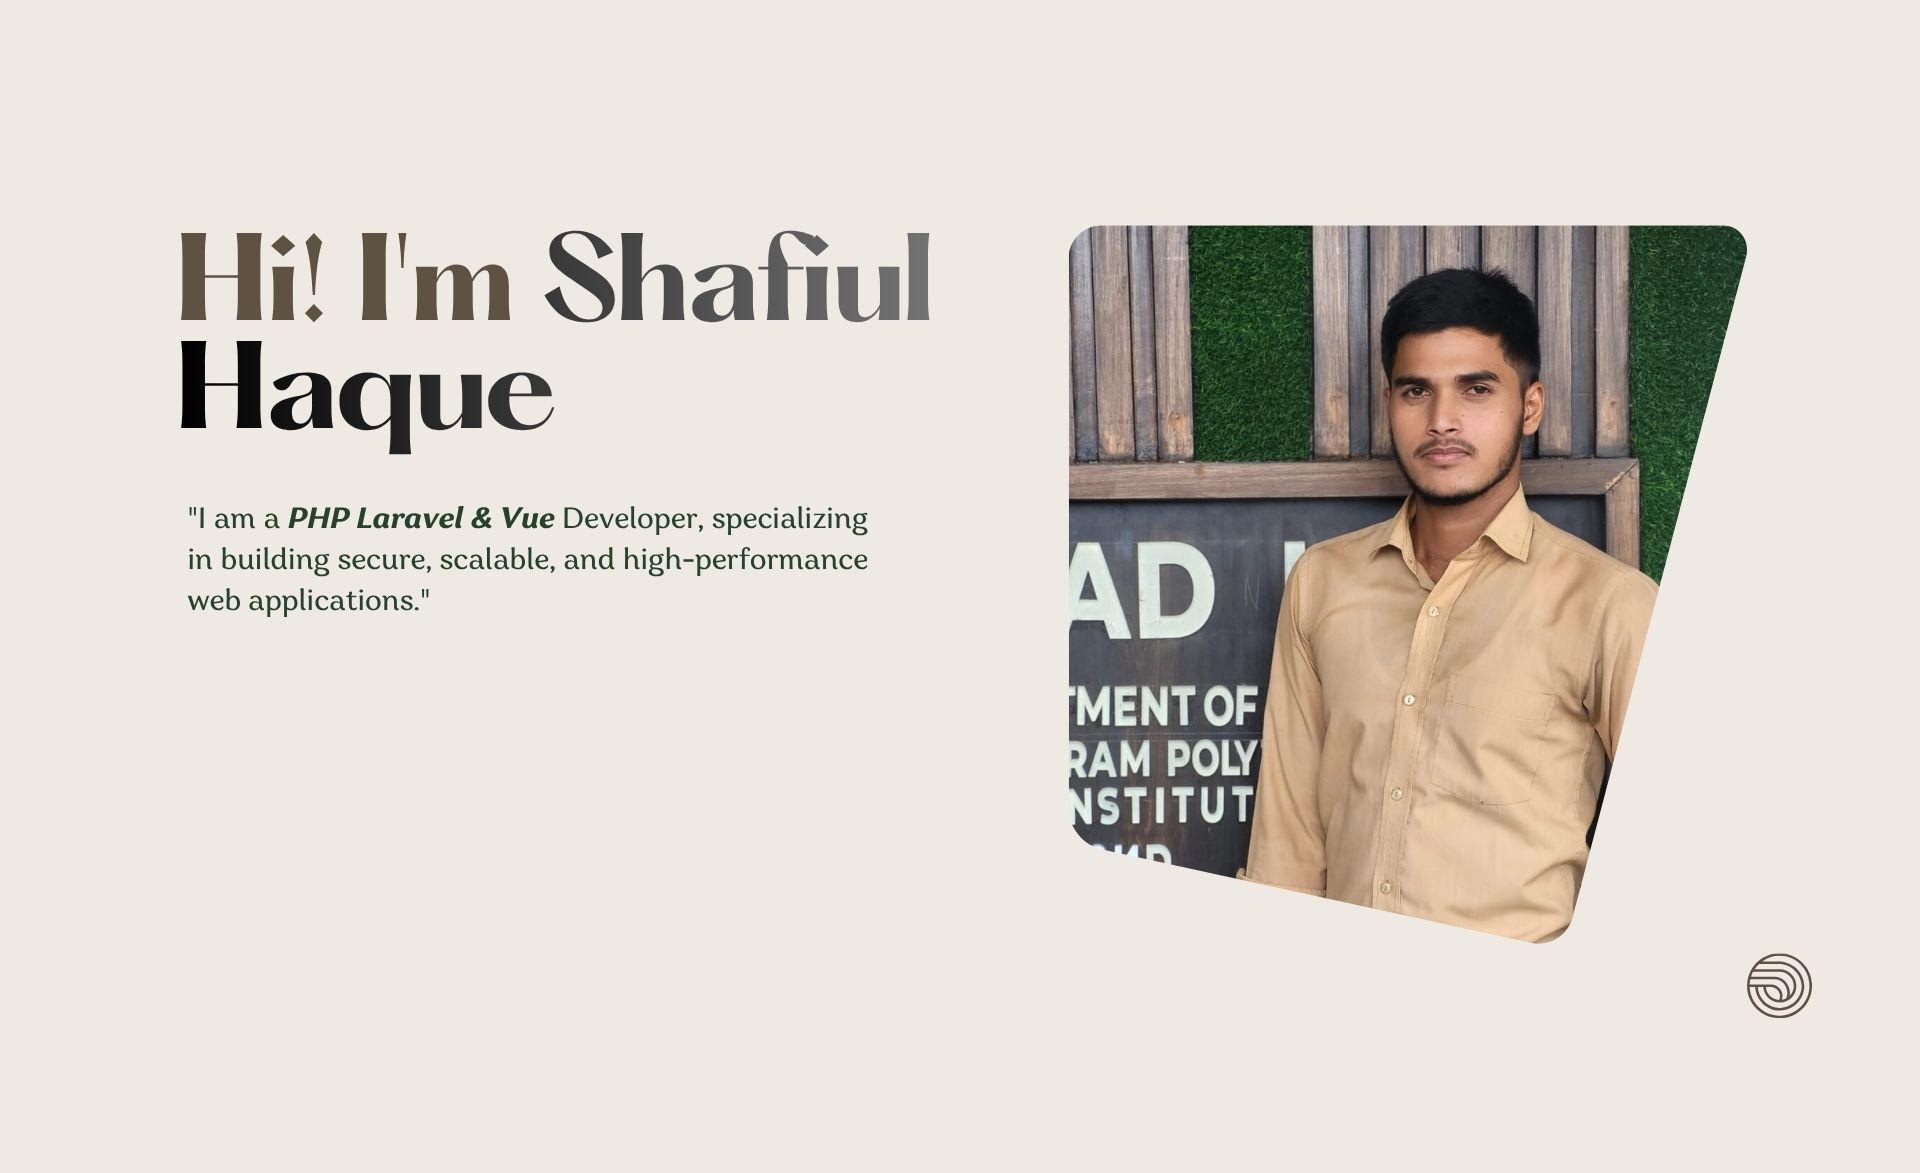
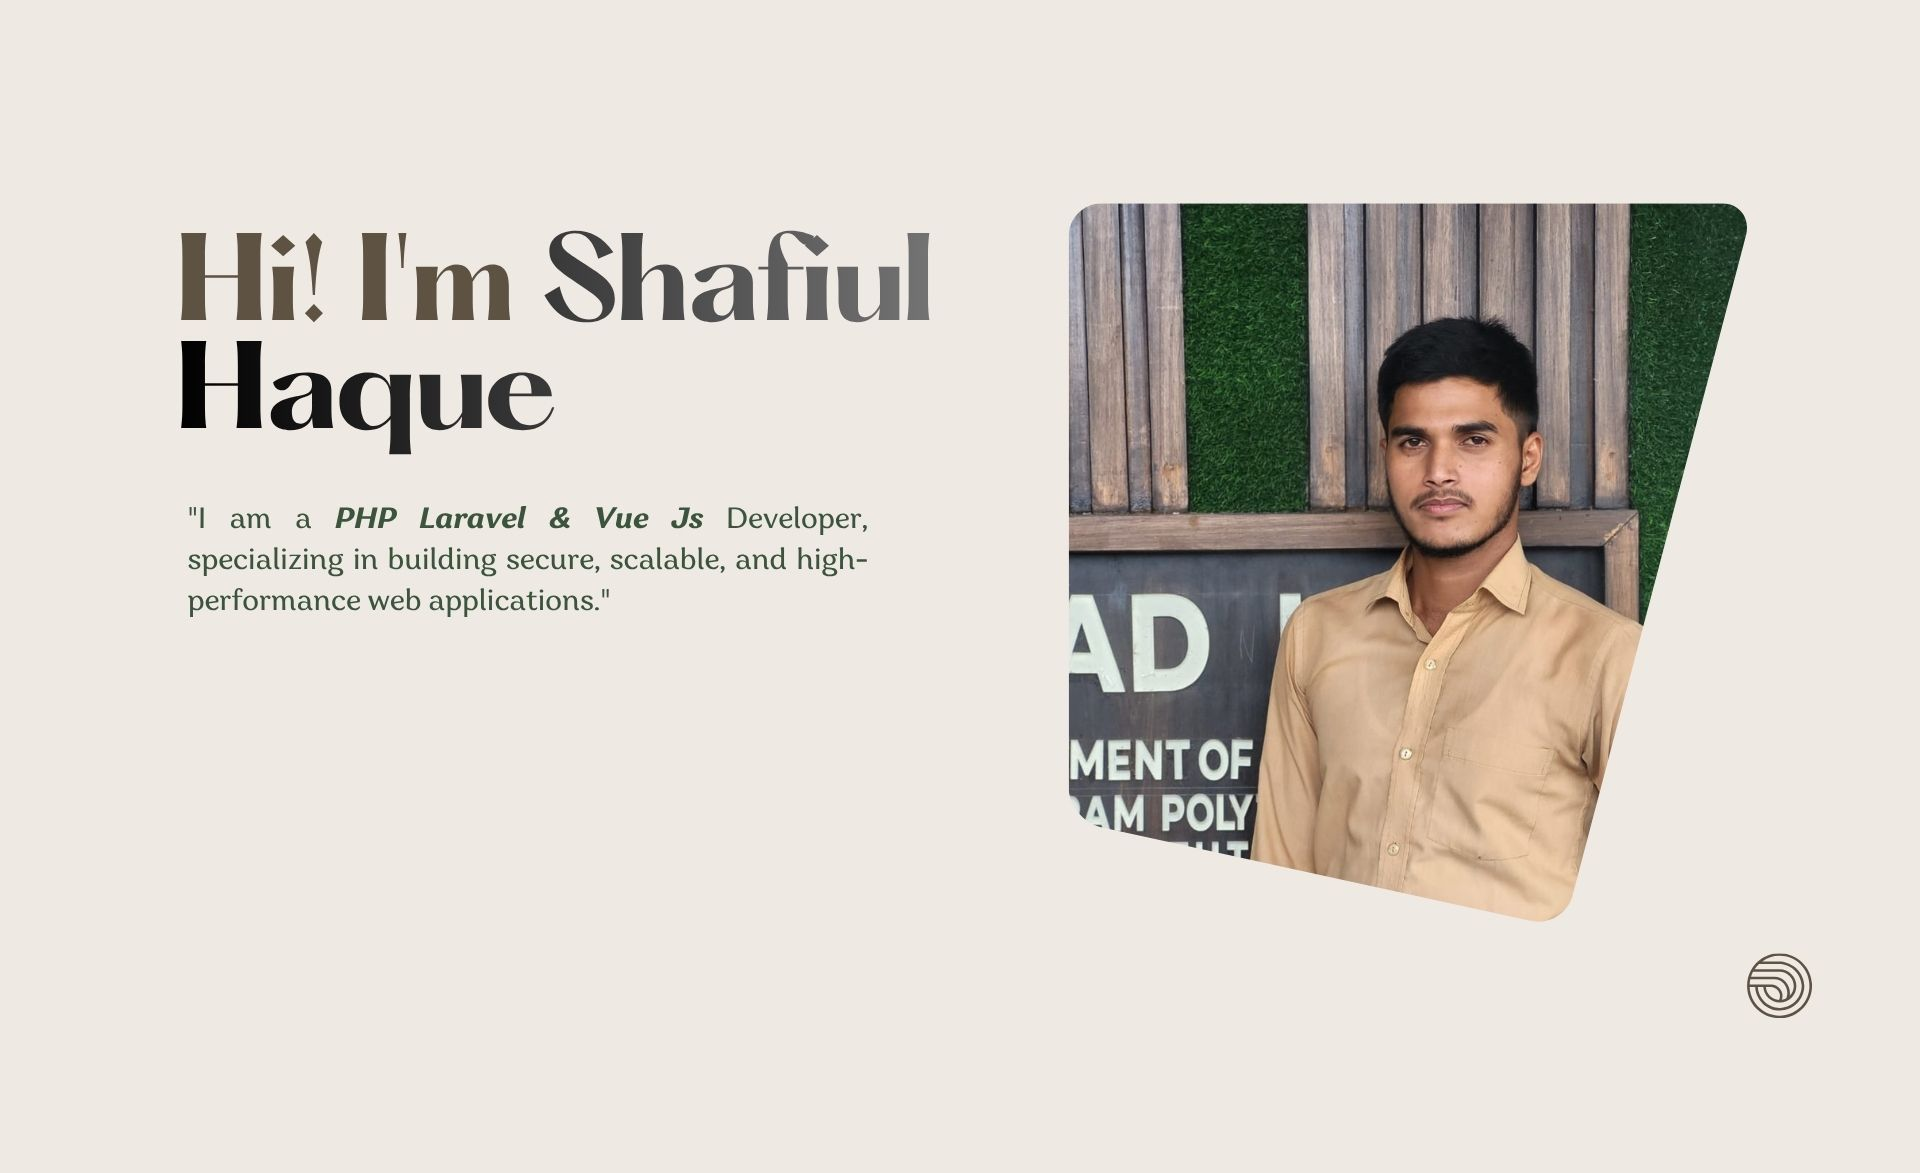
change cover image and profile image

Changed region(s): [[0.5312, 0.1535, 0.9062, 0.8286], [0.0938, 0.4297, 0.4688, 0.5217]]

diff --git a/resources/views/layout/nav.blade.php b/resources/views/layout/nav.blade.php
@@ -1,10 +1,10 @@
 <header id="header" class="header d-flex align-items-center light-background sticky-top">
     <div class="container-fluid position-relative d-flex align-items-center justify-content-between">
 
-      <a href="index.html" class="logo d-flex align-items-center me-auto me-xl-0">
+      <a href="{{ url('/') }}" class="logo d-flex align-items-center me-auto me-xl-0">
         <!-- Uncomment the line below if you also wish to use an image logo -->
         <!-- <img src="assets/img/logo.png" alt=""> -->
-        <h1 class="sitename">Kelly</h1>
+        <h1 class="">My Portfolio</h1>
       </a>
 
       <nav id="navmenu" class="navmenu">
@@ -37,9 +37,8 @@
       </nav>
 
       <div class="header-social-links">
-        <a href="#" class="twitter"><i class="bi bi-twitter-x"></i></a>
+        <a href="#" class="github"><i class="bi bi-github"></i></a>
         <a href="#" class="facebook"><i class="bi bi-facebook"></i></a>
-        <a href="#" class="instagram"><i class="bi bi-instagram"></i></a>
         <a href="#" class="linkedin"><i class="bi bi-linkedin"></i></a>
       </div>
 

diff --git a/resources/views/layout/footer.blade.php b/resources/views/layout/footer.blade.php
@@ -2,12 +2,13 @@
 
     <div class="container">
       <div class="copyright text-center ">
-        <p>© <span>Copyright</span> <strong class="px-1 sitename">Kelly</strong> <span>All Rights Reserved<br></span></p>
+        <p>© <span>Shafiul Islam</span> <strong class="px-1 sitename">Shafi</strong> <span>Full-Stack Web Developer<br></span></p>
       </div>
       <div class="social-links d-flex justify-content-center">
-        <a href=""><i class="bi bi-twitter-x"></i></a>
+        {{-- <a href=""><i class="bi bi-twitter-x"></i></a> --}}
+        <a href=""><i class="bi bi-github"></i></a>
         <a href=""><i class="bi bi-facebook"></i></a>
-        <a href=""><i class="bi bi-instagram"></i></a>
+        {{-- <a href=""><i class="bi bi-instagram"></i></a> --}}
         <a href=""><i class="bi bi-linkedin"></i></a>
       </div>
       <div class="credits">

diff --git a/resources/views/pages/home.blade.php b/resources/views/pages/home.blade.php
@@ -11,7 +11,7 @@
       <div class="container text-center" data-aos="zoom-out" data-aos-delay="100">
         <div class="row justify-content-center">
           <div class="col-lg-8">
-            <a href="about.html" class="btn-get-started">About Me</a>
+            <a href="{{ url('/about') }}" class="btn-get-started">About Me</a>
           </div>
         </div>
       </div>

diff --git a/resources/views/component/about.blade.php b/resources/views/component/about.blade.php
@@ -10,7 +10,7 @@
 
         <div class="row gy-4 justify-content-center">
           <div class="col-lg-4">
-            <img src="assets/img/profile-img.jpg" class="img-fluid" alt="">
+            <img src="assets/img/profile.jpg" class="img-fluid" alt="">
           </div>
           <div class="col-lg-8 content">
             <h2>UI/UX Designer &amp; Web Developer.</h2>

diff --git a/resources/views/pages/about.blade.php b/resources/views/pages/about.blade.php
@@ -16,7 +16,7 @@
 
         <div class="row gy-4 justify-content-center">
           <div class="col-lg-4">
-            <img src="assets/img/profile-img.jpg" class="img-fluid" alt="">
+            <img src="assets/img/profile.jpg" class="img-fluid" alt="">
           </div>
           <div class="col-lg-8 content">
             <h2>UI/UX Designer &amp; Web Developer.</h2>
